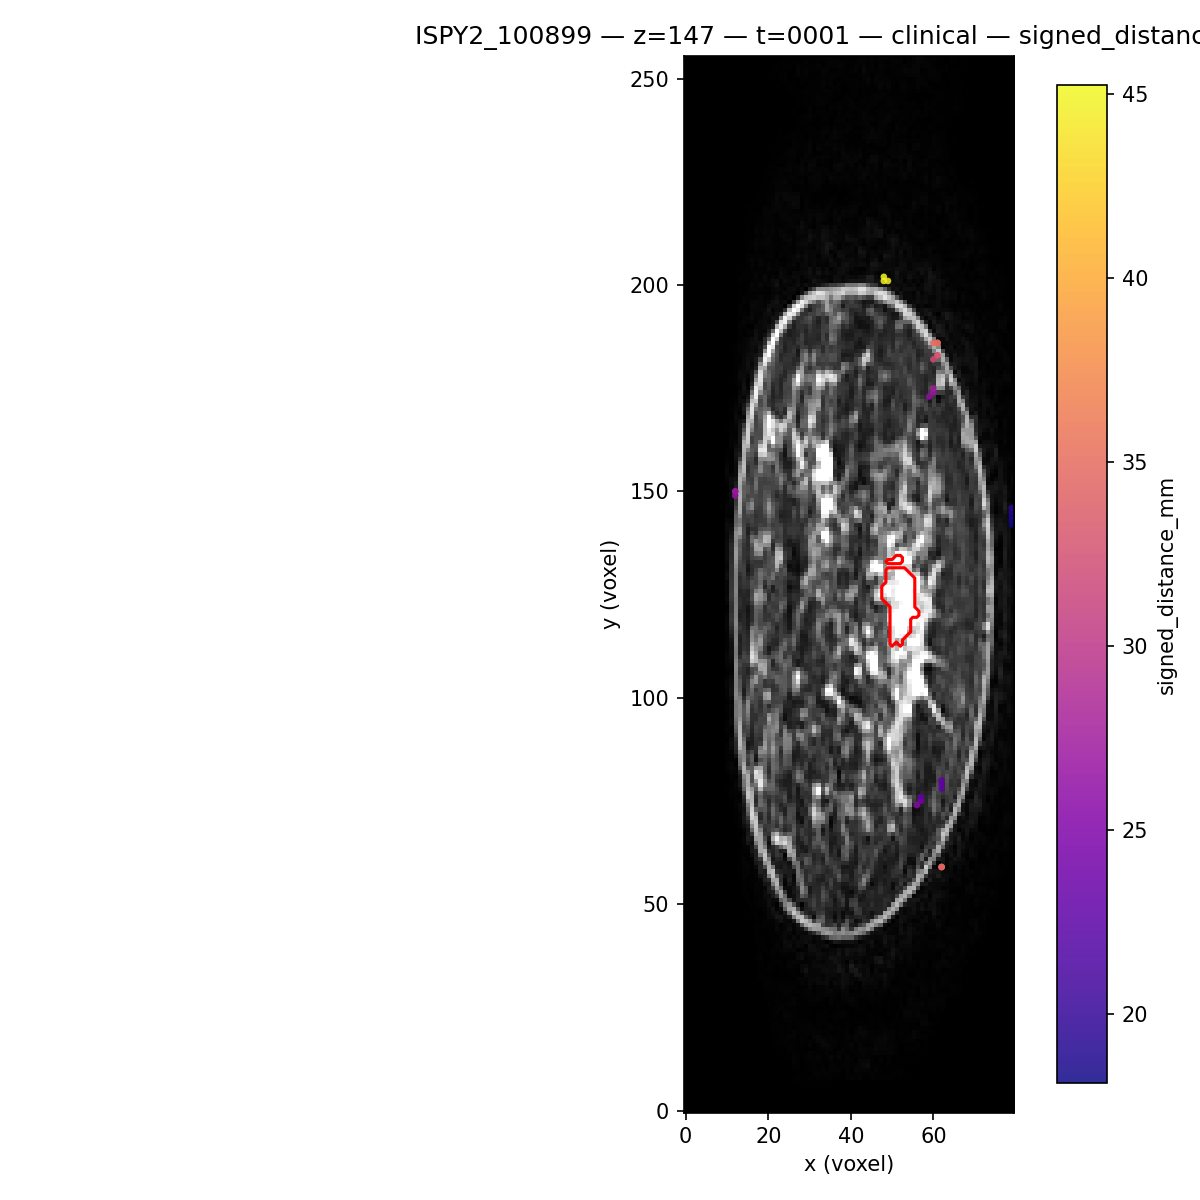
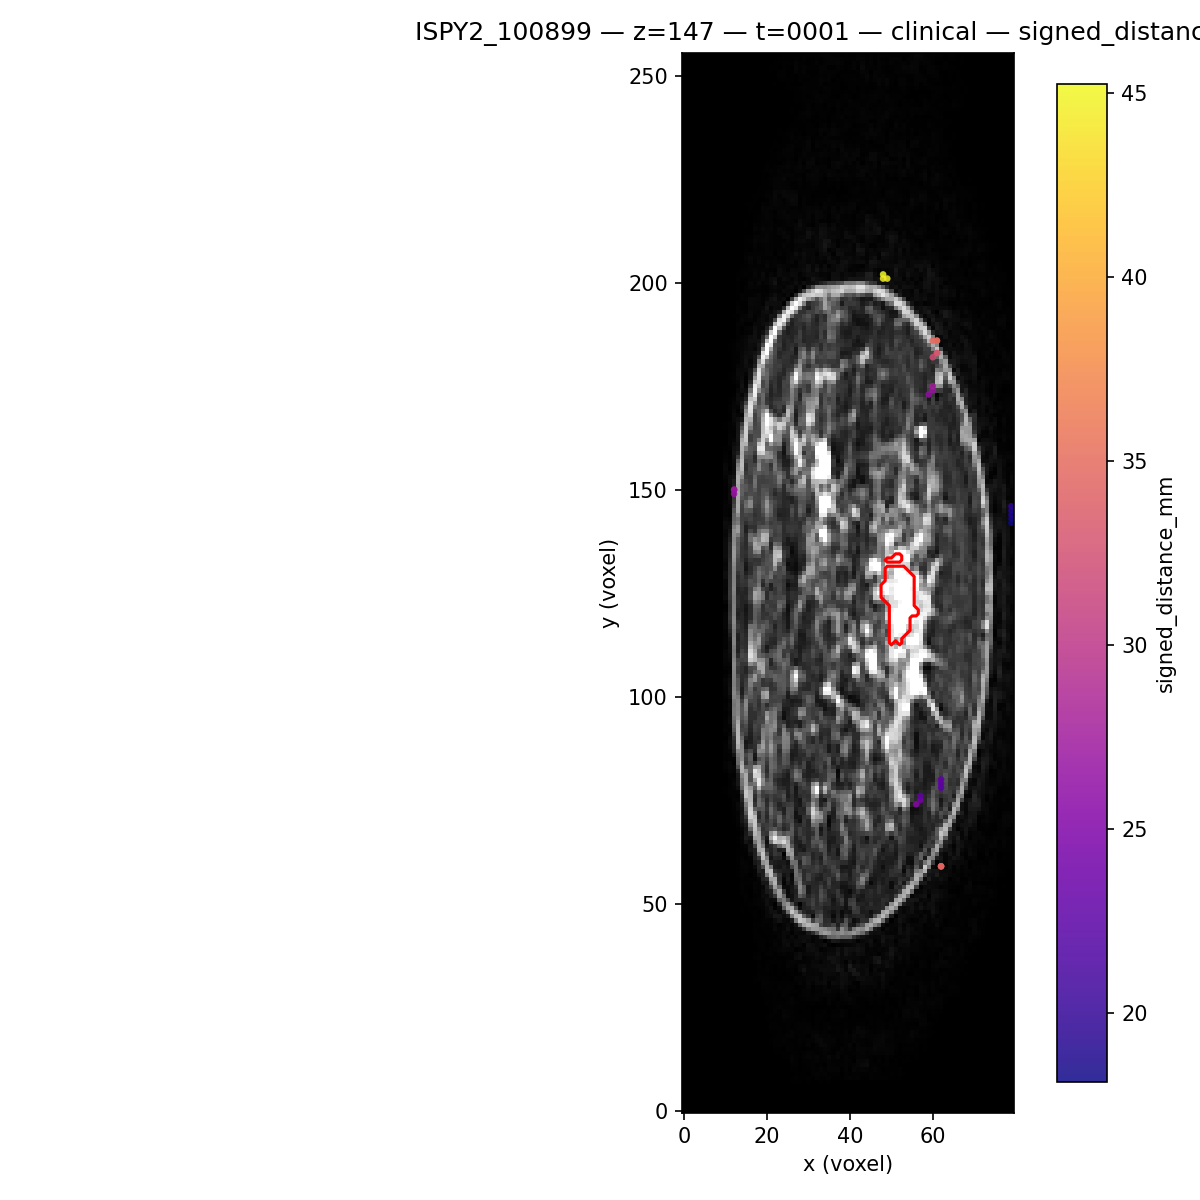
docs(issue-119): refresh alignment figures; link Deep Sets note from graph README
- Regenerated clinical DCE overlay PNGs for three ISPY2 cases; filenames match docs/deepsets_issue119/README.md.
- graph_extraction/README: point readers to design note and alignment QA.

Made-with: Cursor

diff --git a/graph_extraction/README.md b/graph_extraction/README.md
@@ -53,6 +53,8 @@ For each study, the pipeline can write:
 - optional debug images
   - vessel coverage MIPs and other inspection outputs
 
+The Deep Sets dataset builder consumes the **skeleton** mask only today; **support**, **morphometry**, and **tumor_graph_features** are documented for other models. See [`docs/deepsets_issue119/README.md`](../docs/deepsets_issue119/README.md) for a short audit, candidate point features, and DCE–skeleton alignment QA.
+
 ## Environment and Compute
 
 - Activate `vanguard` before running Python commands.
